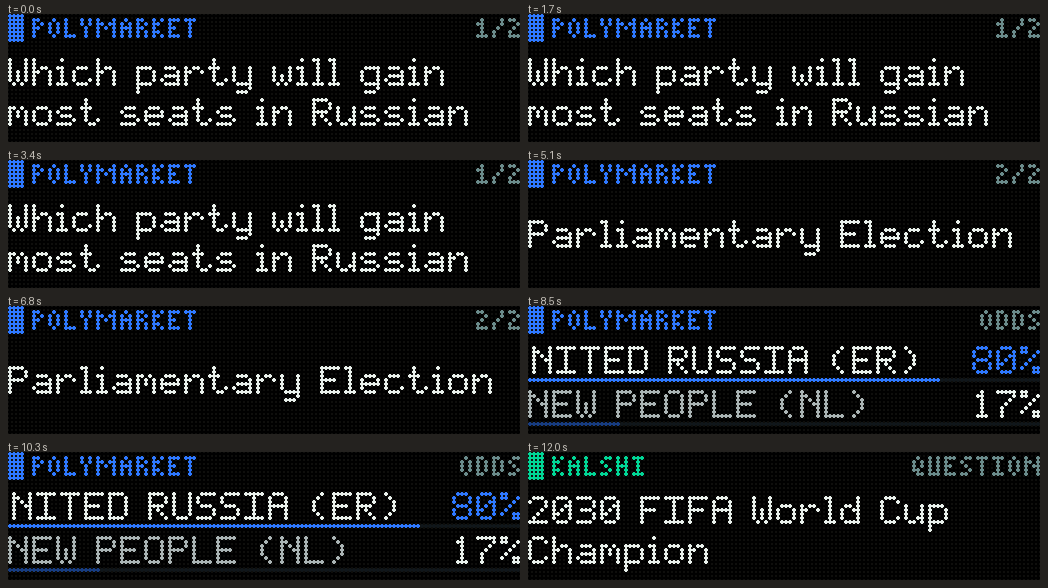
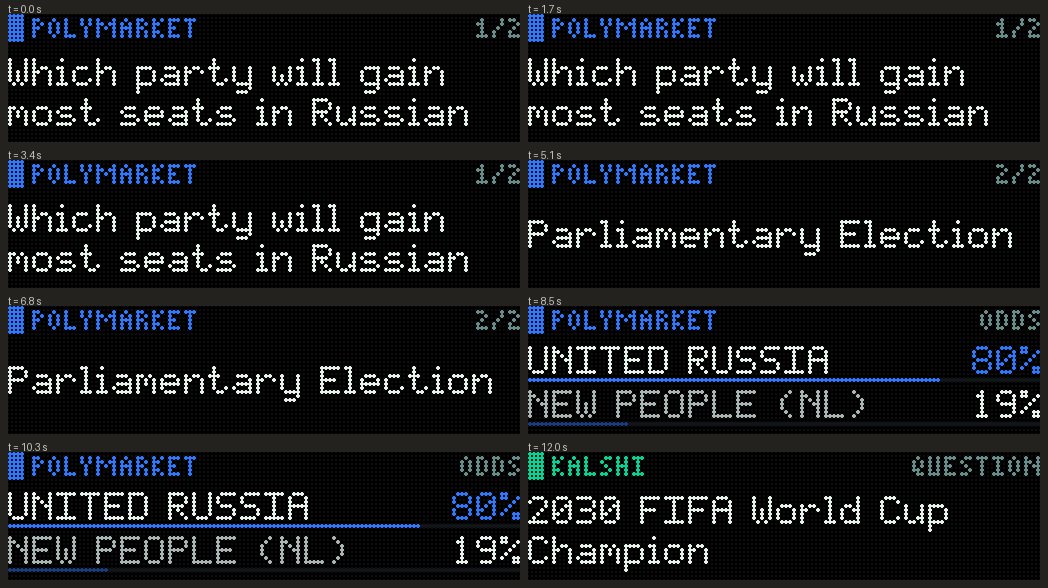
Markets: a bracketed note that only stops a name fitting is dropped. Traffic: an all-clear with no shields is centred. Surf and Quakes previews show real data

diff --git a/plugins/markets/plugin.py b/plugins/markets/plugin.py
@@ -4,6 +4,7 @@ Each event gets a card in two beats: the question, word-wrapped and still so it
 can be read whole, then the answer slides up -- a big YES probability with a
 filling bar, or the leading outcomes. Nothing moves while you are reading.
 """
+import re
 import asyncio
 import json
 from itertools import zip_longest
@@ -221,8 +222,17 @@ LABEL_WIDTH = 128 - 6 - 24  # left of the percentage column
 LABEL_SPEED, LABEL_PAUSE = 30, 1.2
 
 
+def board_label(label):
+    """An outcome's name for the board. A trailing note in brackets goes when that is
+    all that stops the name fitting, so 'United Russia (ER)' reads whole instead of
+    scrolling three letters."""
+    label = label.upper()
+    short = re.sub(r"\s*\([^)]*\)\s*$", "", label)
+    return short if short and short != label and text_width(short) <= LABEL_WIDTH < text_width(label) else label
+
+
 def overflow(label):
-    return max(0, text_width(label.upper()) - LABEL_WIDTH)
+    return max(0, text_width(board_label(label)) - LABEL_WIDTH)
 
 
 def board_pages(event):
@@ -354,7 +364,7 @@ class MarketsModule(Module):
             y = 15 if len(shown) == 1 else 10 + slot * 11
             pct = _percent(outcome["probability"])
             leader = rank == 0
-            label = outcome["label"].upper()
+            label = board_label(outcome["label"])
             color = WHITE if leader else (170, 180, 180)
             extra = overflow(label)
             if extra:

diff --git a/plugins/traffic/plugin.py b/plugins/traffic/plugin.py
@@ -466,7 +466,7 @@ class TrafficModule(Module):
         watched = (freeways(chosen) if chosen.strip() else [tuple(route) for route in data.get("freeways") or []])[:4]
         for index, (system, number) in enumerate(watched):
             shield(frame, system, number, index * 24, 12)
-        right = max(len(watched) * 24, 60)
+        right = max(len(watched) * 24, 60) if watched else 0     # nothing on the left: centre it
         centre = right + (128 - right) // 2
         draw_text(frame, "ALL", centre - text_width("ALL") // 2, 11, ALL_CLEAR)
         draw_text(frame, "CLEAR", centre - text_width("CLEAR") // 2, 21, ALL_CLEAR)
